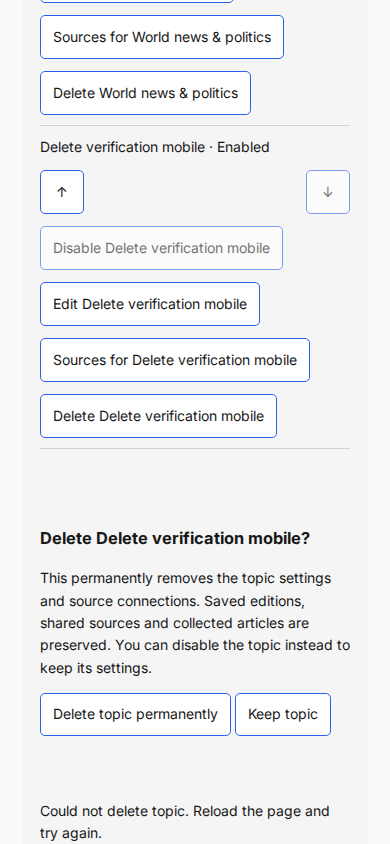
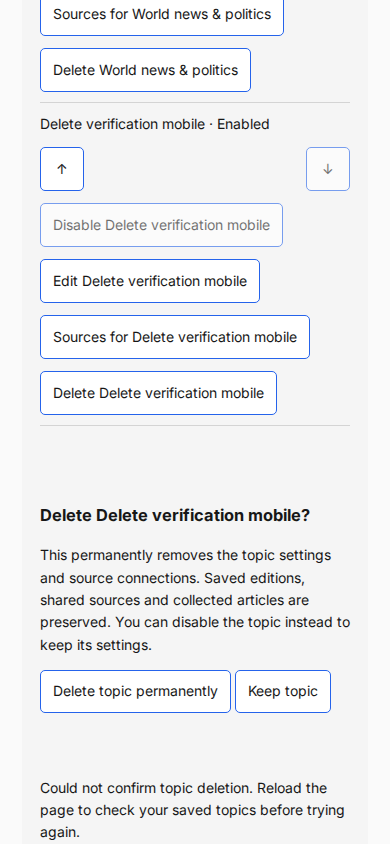
Clarify interrupted topic deletion and verify reload recovery

diff --git a/scripts/smoke-topic-delete.ts b/scripts/smoke-topic-delete.ts
@@ -37,6 +37,7 @@ async function smoke() {
   const replayTopics = structuredClone(original);
   let failDelete = true;
   let deletes = 0;
+  let loseResponse = false;
   // Browser writes stay in memory; protected Node requests only read live state.
   await context.route('**/*', async (route) => {
     const request = route.request();
@@ -66,7 +67,8 @@ async function smoke() {
         await route.fulfill({ status: 503, body: 'Unavailable' });
       } else {
         replayTopics.splice(index, 1);
-        await route.fulfill({ json: replayTopics });
+        if (loseResponse) await route.abort();
+        else await route.fulfill({ json: replayTopics });
       }
       return;
     }
@@ -138,12 +140,12 @@ async function smoke() {
         .click();
       await page
         .getByRole('status')
-        .filter({ hasText: 'Could not delete topic.' })
+        .filter({ hasText: 'Could not confirm topic deletion.' })
         .waitFor();
       assert.ok(replayTopics.some((saved) => saved.id === topic.id));
       await page
         .getByRole('status')
-        .filter({ hasText: 'Could not delete topic.' })
+        .filter({ hasText: 'Could not confirm topic deletion.' })
         .scrollIntoViewIfNeeded();
       await page.screenshot({
         path: 'docs/screenshots/topic-delete-failure-' + device + '.png',
@@ -180,13 +182,56 @@ async function smoke() {
       );
       assert.deepEqual(replayTopics, original);
       assert.equal(deletes, deletesBefore + 2);
+      // The server can complete deletion before the browser loses its response.
+      replayTopics.push(topic);
+      loseResponse = true;
+      await page.reload();
+      await page.getByText('Manage topics', { exact: true }).click();
+      await page
+        .getByRole('button', { name: 'Delete ' + topic.name, exact: true })
+        .click();
+      await confirmation
+        .getByRole('button', { name: 'Delete topic permanently', exact: true })
+        .click();
+      const interrupted = page.getByRole('status').filter({
+        hasText: 'The topic may have been deleted.',
+      });
+      await interrupted.waitFor();
+      await interrupted.scrollIntoViewIfNeeded();
+      await page.screenshot({
+        path: 'docs/screenshots/topic-delete-interrupted-' + device + '.png',
+      });
+      assert.ok(!replayTopics.some((saved) => saved.id === topic.id));
+      await page.reload();
+      await page
+        .locator('.topic-grid')
+        .getByRole('heading', {
+          name: original[0].name,
+          exact: true,
+        })
+        .waitFor();
+      assert.equal(
+        await page
+          .getByRole('button', {
+            name: 'Delete ' + topic.name,
+            exact: true,
+          })
+          .count(),
+        0,
+      );
+      assert.equal(
+        deletes,
+        deletesBefore + 3,
+        'Reload must not retry deletion',
+      );
+      loseResponse = false;
       assert.deepEqual(errors, []);
       await page.close();
     }
     assert.deepEqual(credentials, []);
     assert.deepEqual(unexpectedWrites, []);
     console.log(
-      'Topic deletion desktop/mobile: browser replay cancel, error/retry, removal, reload and order passed; no production writes or generation',
+      'Topic deletion desktop/mobile: browser replay cancel, error/retry, removal, lost-response recovery without retry, reload and order passed; no production writes or generation',
     );
   } finally {
     assert.deepEqual(

diff --git a/apps/web/src/TopicSettings.tsx b/apps/web/src/TopicSettings.tsx
@@ -27,10 +27,12 @@ export function TopicSettings({
     if (!deleting) return;
     setBusy(true);
     setMessage('');
+    let responseReceived = false;
     try {
       const response = await fetch(`/api/topics/${deleting.id}`, {
         method: 'DELETE',
       });
+      responseReceived = true;
       if (!response.ok) throw new Error();
       onReordered(topicSchema.array().parse(await response.json()));
       if (editing?.id === deleting.id) setEditing(null);
@@ -40,7 +42,11 @@ export function TopicSettings({
       );
       setDeleting(null);
     } catch {
-      setMessage('Could not delete topic. Reload the page and try again.');
+      setMessage(
+        responseReceived
+          ? 'Could not confirm topic deletion. Reload the page to check your saved topics before trying again.'
+          : 'The connection was interrupted. The topic may have been deleted. Reload the page to check your saved topics before trying again.',
+      );
     } finally {
       setBusy(false);
     }

diff --git a/PROGRESS.md b/PROGRESS.md
@@ -1,21 +1,3 @@
-## 2026-11-05: iteration 797 — verify X-account save recovery safely
-
-- Started clean on main; no leftover work. Alerts zero; health/database/Redis green, all four app services active, 36 sources without errors or missing active-source success, no failed retained runs. Next edition is 15:00 UTC.
-- X-account browser replay now uses protected Node operational snapshots, blocks service workers, probes unexpected-write blocking and verifies browser credential absence. Full saved edition/topics/profile comparisons replace the previous latest-object comparison.
-- Desktop/mobile failed saves retain entered handles without changing the replayed topic; retry saves once, reload normalizes @ handles and case-insensitive duplicates send no request. No page errors/overflow; failure screenshots inspected.
-- Verification: pnpm format; pnpm lint:fix; pnpm check; smoke-topic-accounts.ts; smoke-admin-gate.ts; git diff --check. All passed (exit 0): static checks, 497 unit and 214 isolated integration tests, desktop/mobile replay, admin gate and diff check. Initial replay status/count assertions corrected before rerun.
-- TASKS/access decision updated; archived iteration 782; discarded regenerated unchanged success screenshots. SOURCES/NEEDS_FROM_HUMAN unchanged: no source changes or new blockers. No paid calls, live writes or runtime/config/schema/model/provider changes; no restart required under STEERING 22.
-- Next FIRST: Nov 5 15:00 UTC NBA/grouping/cost/latency review, fallback before scorer; X rounds after 21:00 UTC Nov 5/6. Admin identity/proxy verification remains pending.
-
-## 2026-11-05: iteration 798 — verify source connection recovery safely
-
-- Started clean on main; no leftover work. Health/database/Redis green, services active and all 36 sources healthy. No failed retained digest runs; two historical ingestion failure counters have no retained runs and current sources succeed. One pending observability memory warning, zero firing.
-- Source-connection replay now uses protected Node operational snapshots, blocks service workers and unexpected writes, probes the write guard and checks browser credential absence. Full saved edition/topics/profile comparisons replace the latest-object comparison.
-- Desktop/mobile failed saves retain selections; retry exposes stored incoming content, reload preserves connections and disconnect hides them. No page errors or overflow; both failure screenshots inspected. Live saved data unchanged.
-- Verification: pnpm format; pnpm lint:fix; pnpm check; smoke-topic-sources.ts; smoke-admin-gate.ts; git diff --check. All passed (exit 0): static checks, 497 unit and 214 isolated integration tests, desktop/mobile replay, admin gate and diff check.
-- TASKS/access decision updated; archived iteration 783. SOURCES/NEEDS_FROM_HUMAN unchanged: no source changes or new blockers. No paid calls, live writes or runtime/config/schema/model/provider changes; no restart required under STEERING 22.
-- Next FIRST: Nov 5 15:00 UTC NBA/grouping/cost/latency review, fallback before scorer; X rounds after 21:00 UTC Nov 5/6. Admin identity/proxy verification remains pending.
-
 ## 2026-11-05: iteration 799 — verify topic availability recovery safely
 
 - Started clean on main; no leftover work. Health/database/Redis green, all four app services active and 36 sources healthy. No failed digest jobs; two historical ingestion counters have no retained runs. One pending memory warning, zero firing alerts.
@@ -143,4 +125,13 @@
 - Desktop/mobile replay covers pending locks, non-JSON rejection, completed save with lost response, reload without retry, visible saved values and disabling. Creation, X-account and parked Reddit settings browser replays pass; protected full live topics/profile/edition unchanged. Updated screenshots inspected; no live writes or paid calls.
 - Verification: pnpm format; pnpm lint:fix; pnpm build; pnpm check; smoke-topics.ts; smoke-topic-accounts.ts; smoke-topic-create.ts; smoke-reddit-communities.ts; smoke-admin-gate.ts; git diff --check. All passed: static checks, 497 unit and 214 isolated integration tests, desktop/mobile replays and admin gate.
 - Rebuilt app and restarted API; /healthz OK and latest reader endpoint returns four topics. Worker runtime unchanged. TASKS updated; SOURCES/NEEDS_FROM_HUMAN unchanged (no source changes/new blockers).
+- Next FIRST: Nov 5 15:00 UTC NBA/grouping/cost/latency review, fallback before scorer; X rounds after 21:00 UTC Nov 5/6. Admin identity/proxy verification remains pending.
+
+## 2026-11-05: iteration 813 — clarify interrupted topic deletion
+
+- Started clean on main; no leftover work. Health/database/Redis and four services green; all 36 sources healthy, digest queue has zero failures and next edition is 15:00 UTC. Existing metrics memory warning firing; isolated benchmark remains deferred.
+- Topic deletion now warns that an interrupted response may follow a completed deletion and directs the reader to reload saved topics before retrying. Unconfirmed HTTP responses also give explicit reload guidance.
+- Desktop/mobile replay covers cancellation, non-JSON rejection/retry, successful deletion and completed deletion with lost response; reload confirms removal without another DELETE. Protected full live topics/profile/edition unchanged; browser credential/write guards pass. Four screenshots inspected.
+- Verification: pnpm format; pnpm lint:fix; pnpm build; pnpm check; smoke-topic-delete.ts; smoke-admin-gate.ts; git diff --check. All passed: static checks, 497 unit and 214 isolated integration tests, desktop/mobile recovery and admin gate. Initial browser build timing and collapsed-manager setup corrected before rerun.
+- Rebuilt app and restarted API; /healthz OK. Worker runtime unchanged. Archived progress 797–798; TASKS updated. SOURCES/NEEDS_FROM_HUMAN unchanged (no source changes/new blockers). No live writes or paid calls.
 - Next FIRST: Nov 5 15:00 UTC NBA/grouping/cost/latency review, fallback before scorer; X rounds after 21:00 UTC Nov 5/6. Admin identity/proxy verification remains pending.

diff --git a/docs/progress-archive/2026-11-05-iterations-797-798.md b/docs/progress-archive/2026-11-05-iterations-797-798.md
@@ -1,0 +1,17 @@
+## 2026-11-05: iteration 797 — verify X-account save recovery safely
+
+- Started clean on main; no leftover work. Alerts zero; health/database/Redis green, all four app services active, 36 sources without errors or missing active-source success, no failed retained runs. Next edition is 15:00 UTC.
+- X-account browser replay now uses protected Node operational snapshots, blocks service workers, probes unexpected-write blocking and verifies browser credential absence. Full saved edition/topics/profile comparisons replace the previous latest-object comparison.
+- Desktop/mobile failed saves retain entered handles without changing the replayed topic; retry saves once, reload normalizes @ handles and case-insensitive duplicates send no request. No page errors/overflow; failure screenshots inspected.
+- Verification: pnpm format; pnpm lint:fix; pnpm check; smoke-topic-accounts.ts; smoke-admin-gate.ts; git diff --check. All passed (exit 0): static checks, 497 unit and 214 isolated integration tests, desktop/mobile replay, admin gate and diff check. Initial replay status/count assertions corrected before rerun.
+- TASKS/access decision updated; archived iteration 782; discarded regenerated unchanged success screenshots. SOURCES/NEEDS_FROM_HUMAN unchanged: no source changes or new blockers. No paid calls, live writes or runtime/config/schema/model/provider changes; no restart required under STEERING 22.
+- Next FIRST: Nov 5 15:00 UTC NBA/grouping/cost/latency review, fallback before scorer; X rounds after 21:00 UTC Nov 5/6. Admin identity/proxy verification remains pending.
+
+## 2026-11-05: iteration 798 — verify source connection recovery safely
+
+- Started clean on main; no leftover work. Health/database/Redis green, services active and all 36 sources healthy. No failed retained digest runs; two historical ingestion failure counters have no retained runs and current sources succeed. One pending observability memory warning, zero firing.
+- Source-connection replay now uses protected Node operational snapshots, blocks service workers and unexpected writes, probes the write guard and checks browser credential absence. Full saved edition/topics/profile comparisons replace the latest-object comparison.
+- Desktop/mobile failed saves retain selections; retry exposes stored incoming content, reload preserves connections and disconnect hides them. No page errors or overflow; both failure screenshots inspected. Live saved data unchanged.
+- Verification: pnpm format; pnpm lint:fix; pnpm check; smoke-topic-sources.ts; smoke-admin-gate.ts; git diff --check. All passed (exit 0): static checks, 497 unit and 214 isolated integration tests, desktop/mobile replay, admin gate and diff check.
+- TASKS/access decision updated; archived iteration 783. SOURCES/NEEDS_FROM_HUMAN unchanged: no source changes or new blockers. No paid calls, live writes or runtime/config/schema/model/provider changes; no restart required under STEERING 22.
+- Next FIRST: Nov 5 15:00 UTC NBA/grouping/cost/latency review, fallback before scorer; X rounds after 21:00 UTC Nov 5/6. Admin identity/proxy verification remains pending.

diff --git a/TASKS.md b/TASKS.md
@@ -45,6 +45,8 @@ STEERING overrides older milestone notes; implementation history is in PROGRESS.
 
 ## Done markers
 
+- [x] Topic deletion recovery (813): interrupted responses warn deletion may have completed; desktop/mobile replay reloads saved topics without retry and verifies live data unchanged.
+
 - [x] Topic save outcomes (812): interrupted responses retain edits and advise checking saved topics; desktop/mobile replay verifies completed save with lost response, reload without retry, non-JSON rejection and unchanged live data.
 
 - [x] Schedule save outcomes (811): interrupted responses retain edits and advise checking saved state; desktop/mobile replay covers a saved write with lost response, reload without retry, non-JSON rejection and unchanged live data.
